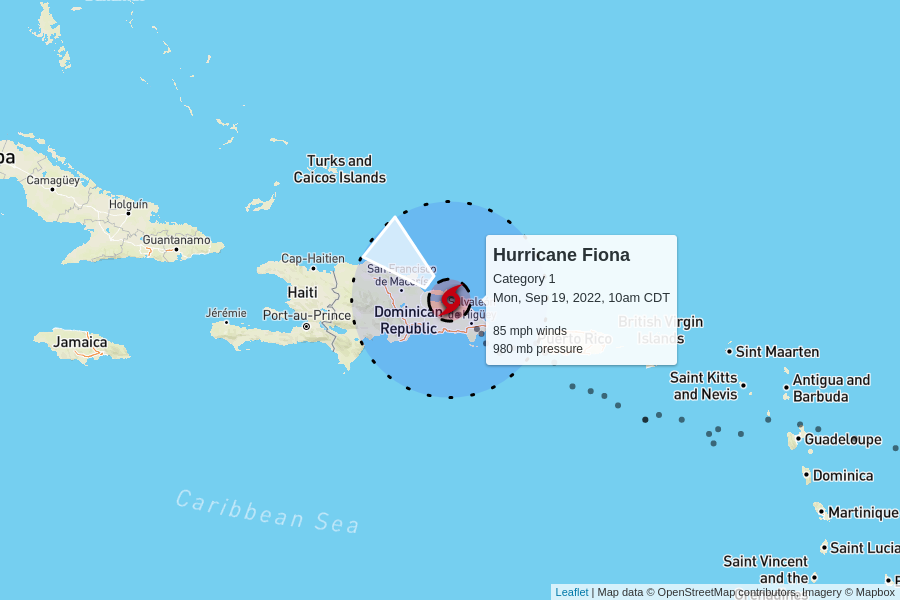
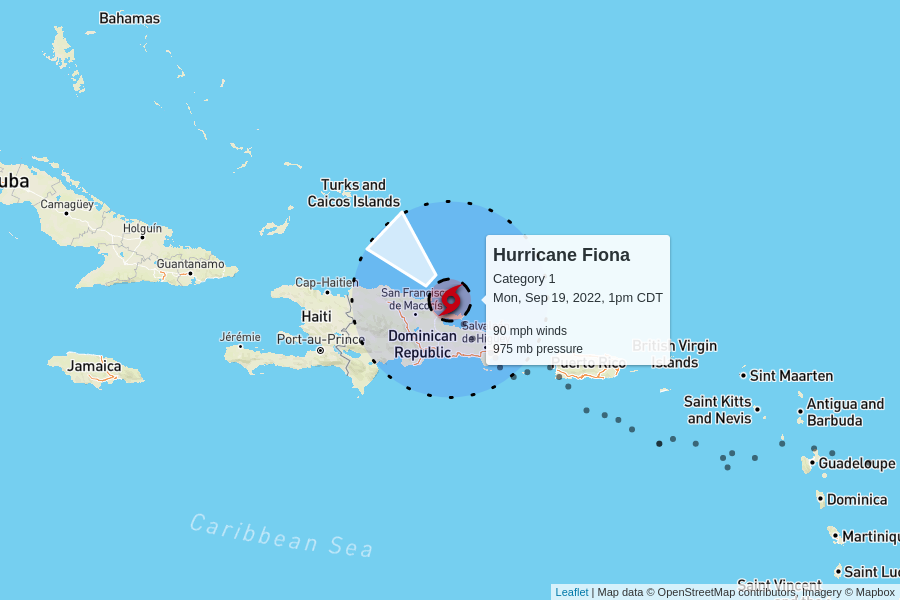
automatic update

diff --git a/docs/index.html b/docs/index.html
@@ -100,7 +100,7 @@
         <td colspan="6" class="storm category-1" >
           <h2>
             Hurricane Fiona - Category 1
-            <p class="updated">last updated <span data-time>2022-09-19T15:00:00.000Z</span></p>
+            <p class="updated">last updated <span data-time>2022-09-19T18:00:00.000Z</span></p>
           </h2>
         </td>
       </tr>
@@ -115,12 +115,12 @@
       </tr>
       <tr>
         <td class="spacer"></td>
-        <td>85 mph</td>
-        <td>980 mb</td>
+        <td>90 mph</td>
+        <td>975 mb</td>
         <td>
-          8 mph to the northwest
+          9 mph to the northwest
           <br/>
-          <span style="display: inline-block; font-size: 1.5em; transform: rotate(310deg);">↑</span>
+          <span style="display: inline-block; font-size: 1.5em; transform: rotate(315deg);">↑</span>
         </td>
         <td><a href="https://raw.githubusercontent.com/mgwalker/atlantic-hurricanes/main/data/csv/AL072022.csv">AL072022.csv</a></td>
         <td><a href="https://www.nhc.noaa.gov/archive/2022/FIONA.shtml?">NHC advisories</a></td>
